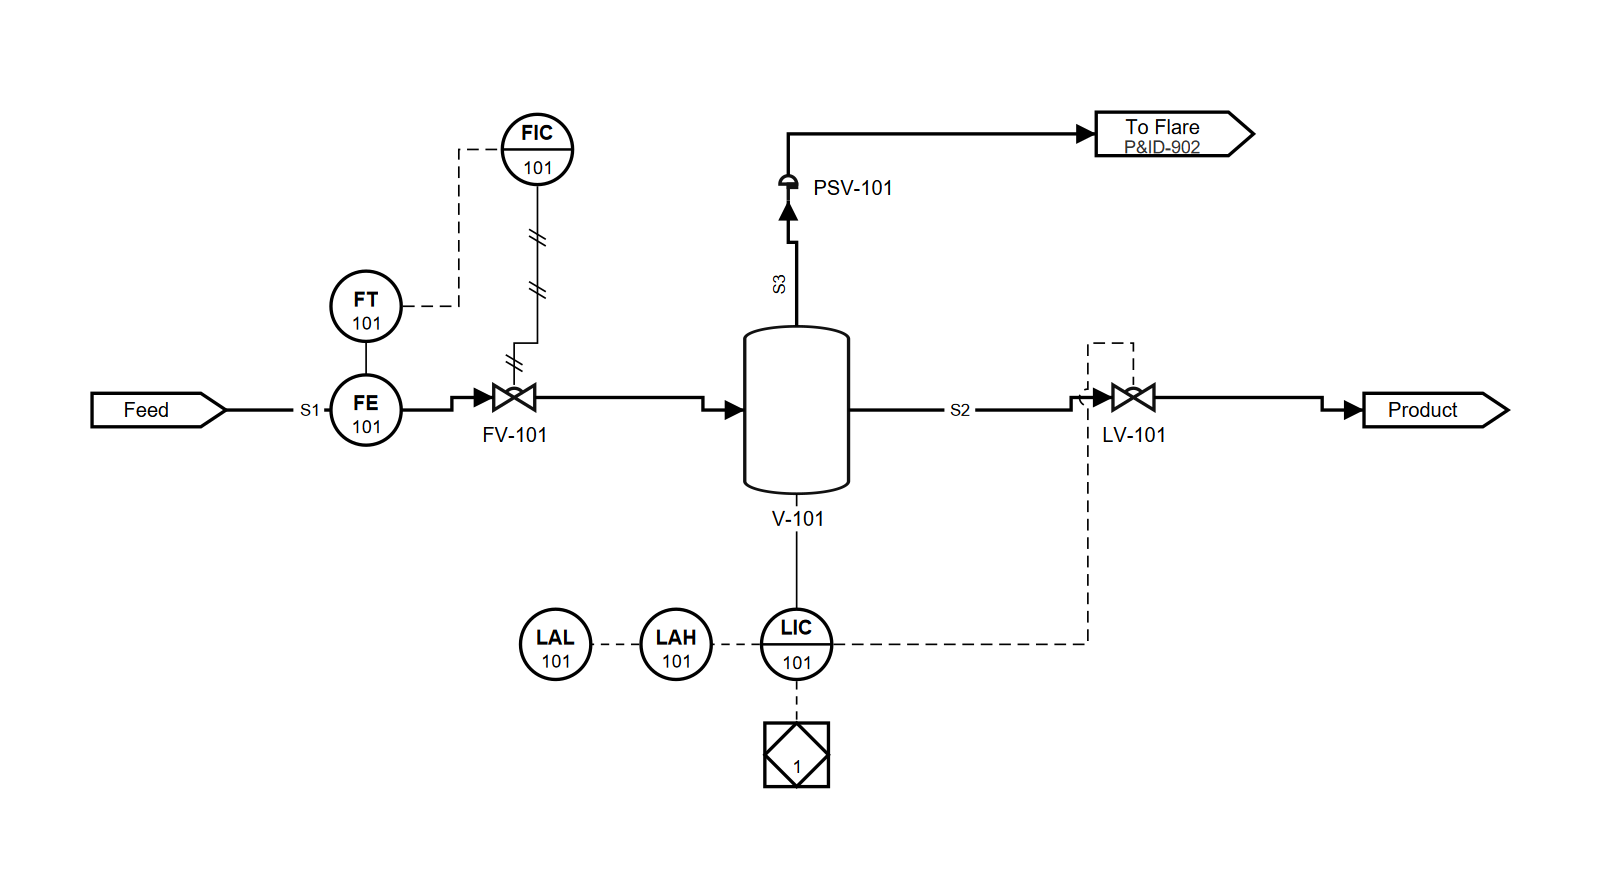
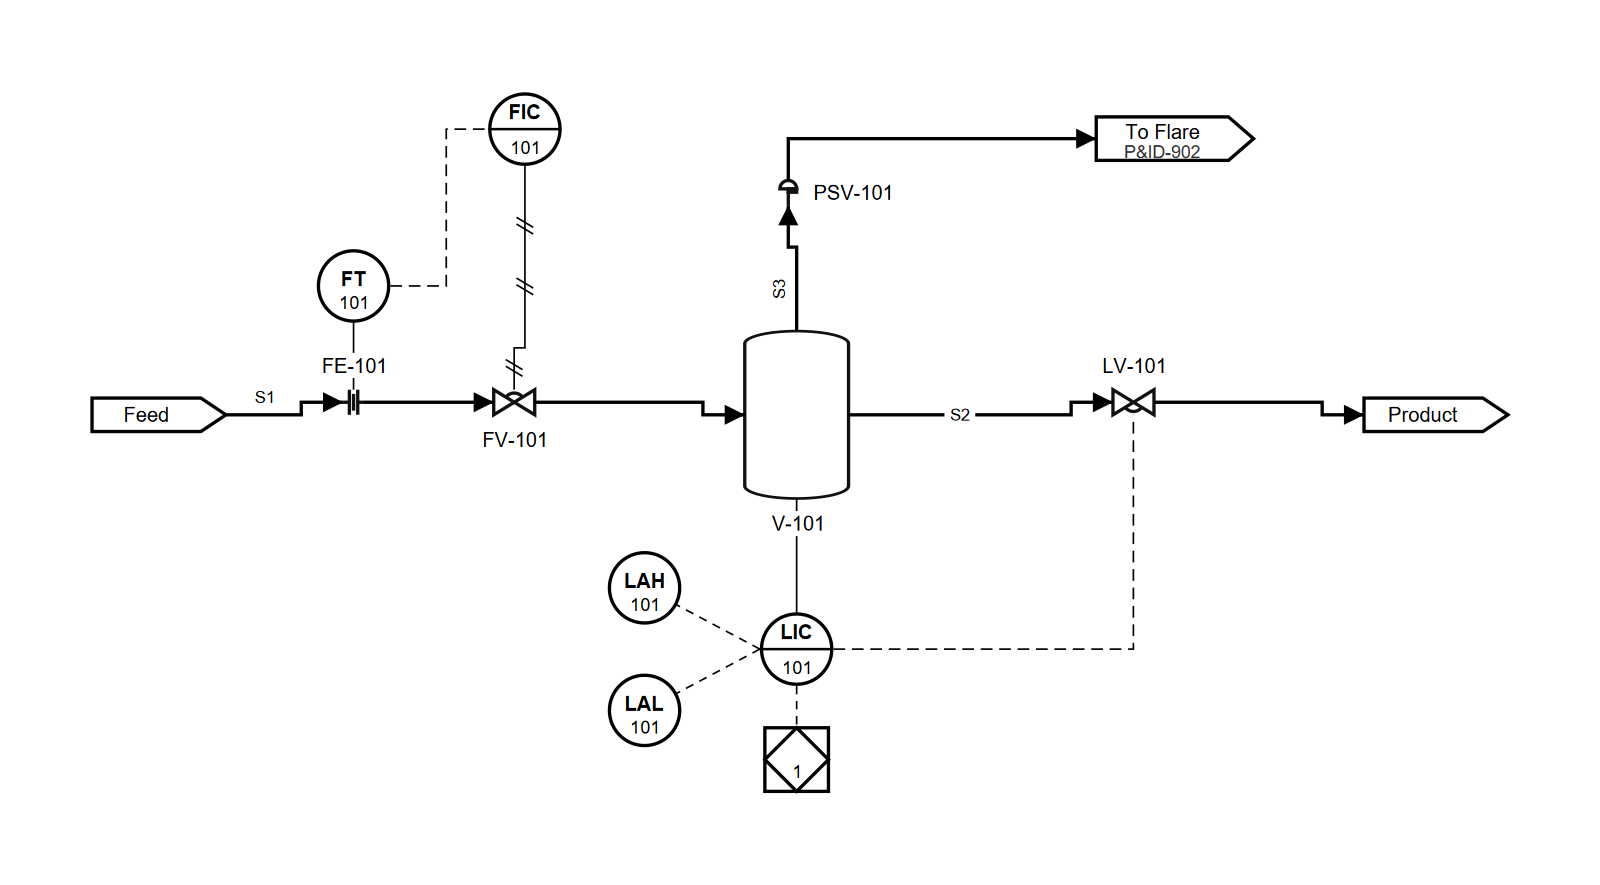
fix(examples): draw the control loop's element, alarms and valve correctly
Three defects in the level and flow loops, all of which made the drawing say
something the plant does not do.

FE-101 was an instrument balloon sitting in the pipe at offset=0. A balloon
reads an element, it is not the element, and the comment above it already said
"orifice plate in the line". It is now a Fitting(variant="orifice") in the run
with the transmitter reading it from an impulse line above. The element carries
the loop's tag, as it does in example 11, so the balloon over it is FT-101.

The alarms were chained, LAL hung off LAH hung off LIC, which draws the low
alarm as though the high alarm fed it. Both are functions of the controller, so
both now hang off LIC and the dashed lines fork from it.

LV-101's actuator faced away from the controller under the drum, so its signal
climbed over the valve to reach a stem on top. Mirrored, the signal drops
straight in.

The golden fixture carried its own copy of all three and is updated with them,
so the fixture and the example stay the same drawing.

diff --git a/examples/04_control_loop.py b/examples/04_control_loop.py
@@ -44,23 +44,31 @@ def main():
     feed = fs.add(units.Feed("Feed")).pin(x=60, y=170)
     fv = fs.add(units.Valve(flow.tag("FV"), variant="control")).pin(x=270, y=180)
     drum = fs.add(units.Vessel("V-101", description="Surge Drum")).pin(x=420, y=145)
-    lv = fs.add(units.Valve(level.tag("LV"), variant="control")).pin(x=640, y=180)
+    fe = fs.add(units.Fitting(flow.tag("FE"), variant="orifice",
+                              description="Feed Orifice Plate")).pin(x=180, y=180)
+    # The actuator faces the controller under the drum, so its signal drops
+    # straight in rather than climbing over the valve to reach a stem on top.
+    lv = fs.add(units.Valve(level.tag("LV"), variant="control")).pin(
+        x=640, y=180, mirrored="y")
     prod = fs.add(units.Product("Product")).pin(x=790, y=170)
     # A PSV is tagged as plain text beside the symbol, not in a balloon.
     psv = fs.add(units.Valve("PSV-101", variant="relief")).pin(x=441, y=55)
     flare = fs.add(units.Product("To Flare", reference="P&ID-902")).pin(x=630, y=5)
 
-    line = fs.connect(feed.outlet, fv.inlet)
+    fs.connect(feed.outlet, fe.inlet)
+    fs.connect(fe.outlet, fv.inlet)
     fs.connect(fv.outlet, drum.inlet)
     fs.connect(drum.outlet, lv.inlet)
     fs.connect(lv.outlet, prod.inlet)
     fs.connect(drum.vent, psv.inlet)
     fs.connect(psv.outlet, flare.inlet)
 
-    # Flow loop: orifice plate in the line, transmitter above it on the same
-    # impulse line, controller off to one side driving the control valve.
-    fs.add_instrument("FE", flow, on=line, at=0.5, offset=0)
-    ft = fs.add_instrument("FT", flow, on=line, at=0.5, offset=62)
+    # Flow loop: FE-101 is the orifice plate in the line, drawn as the fitting
+    # it is. The transmitter reading it stands over it on an impulse line, and
+    # the controller sits off to one side driving the control valve. The
+    # element carries the loop's tag, so the balloon above it is the
+    # transmitter rather than a second FE.
+    ft = fs.add_instrument("FT", flow, on=fe, at="N", offset=62)
     fic = fs.add_instrument("FIC", flow, on=ft, at="N", offset=125, angle=35, variant="panel")
     # The controller lands almost directly above the valve it drives, so take
     # its output off the bottom of the balloon: on the default east face the
@@ -72,8 +80,10 @@ def main():
     # Level loop: controller mounted on the drum, its alarm pair alongside on
     # the same loop, interlock square hung underneath.
     lic = fs.add_instrument("LIC", level, on=drum, at="S", offset=90, variant="panel")
-    lah = fs.add_instrument("LAH", level, on=lic, at="W", offset=50)
-    fs.add_instrument("LAL", level, on=lah, at="W", offset=50)
+    # Both alarms read the controller, so both hang off it. Chaining one to the
+    # other would draw the low alarm as though the high alarm fed it.
+    fs.add_instrument("LAH", level, on=lic, at="W", offset=78, angle=62)
+    fs.add_instrument("LAL", level, on=lic, at="W", offset=78, angle=118)
     fs.add_instrument("I", 1, on=lic, at="S", offset=44, variant="logic")
     fs.connect(lic.sig_out, lv.actuator, kind="electric")
 

diff --git a/tests/test_golden.py b/tests/test_golden.py
@@ -192,28 +192,31 @@ def _control_loop() -> Flowsheet:
     feed = fs.add(units.Feed("Feed")).pin(x=60, y=170)
     fv = fs.add(units.Valve(flow.tag("FV"), variant="control")).pin(x=270, y=180)
     drum = fs.add(units.Vessel("V-101", description="Surge Drum")).pin(x=420, y=145)
-    lv = fs.add(units.Valve(level.tag("LV"), variant="control")).pin(x=640, y=180)
+    fe = fs.add(
+        units.Fitting(flow.tag("FE"), variant="orifice", description="Feed Orifice Plate")
+    ).pin(x=180, y=180)
+    lv = fs.add(units.Valve(level.tag("LV"), variant="control")).pin(x=640, y=180, mirrored="y")
     prod = fs.add(units.Product("Product")).pin(x=790, y=170)
     psv = fs.add(units.Valve("PSV-101", variant="relief")).pin(x=441, y=55)
     flare = fs.add(units.Product("To Flare", reference="P&ID-902")).pin(x=630, y=5)
 
-    line = fs.connect(feed.outlet, fv.inlet)
+    fs.connect(feed.outlet, fe.inlet)
+    fs.connect(fe.outlet, fv.inlet)
     fs.connect(fv.outlet, drum.inlet)
     fs.connect(drum.outlet, lv.inlet)
     fs.connect(lv.outlet, prod.inlet)
     fs.connect(drum.vent, psv.inlet)
     fs.connect(psv.outlet, flare.inlet)
 
-    fs.add_instrument("FE", flow, on=line, at=0.5, offset=0)
-    ft = fs.add_instrument("FT", flow, on=line, at=0.5, offset=62)
+    ft = fs.add_instrument("FT", flow, on=fe, at="N", offset=62)
     fic = fs.add_instrument("FIC", flow, on=ft, at="N", offset=125, angle=35, variant="panel")
     fic.nozzle("sig_out", "S")
     fs.connect(ft.sig_out, fic.sig_in, kind="electric")
     fs.connect(fic.sig_out, fv.actuator, kind="pneumatic")
 
     lic = fs.add_instrument("LIC", level, on=drum, at="S", offset=90, variant="panel")
-    lah = fs.add_instrument("LAH", level, on=lic, at="W", offset=50)
-    fs.add_instrument("LAL", level, on=lah, at="W", offset=50)
+    fs.add_instrument("LAH", level, on=lic, at="W", offset=78, angle=62)
+    fs.add_instrument("LAL", level, on=lic, at="W", offset=78, angle=118)
     # In no loop and with no measured variable: a repeatable logic function
     # takes a literal number, and has to keep being able to.
     fs.add_instrument("I", 1, on=lic, at="S", offset=44, variant="logic")
